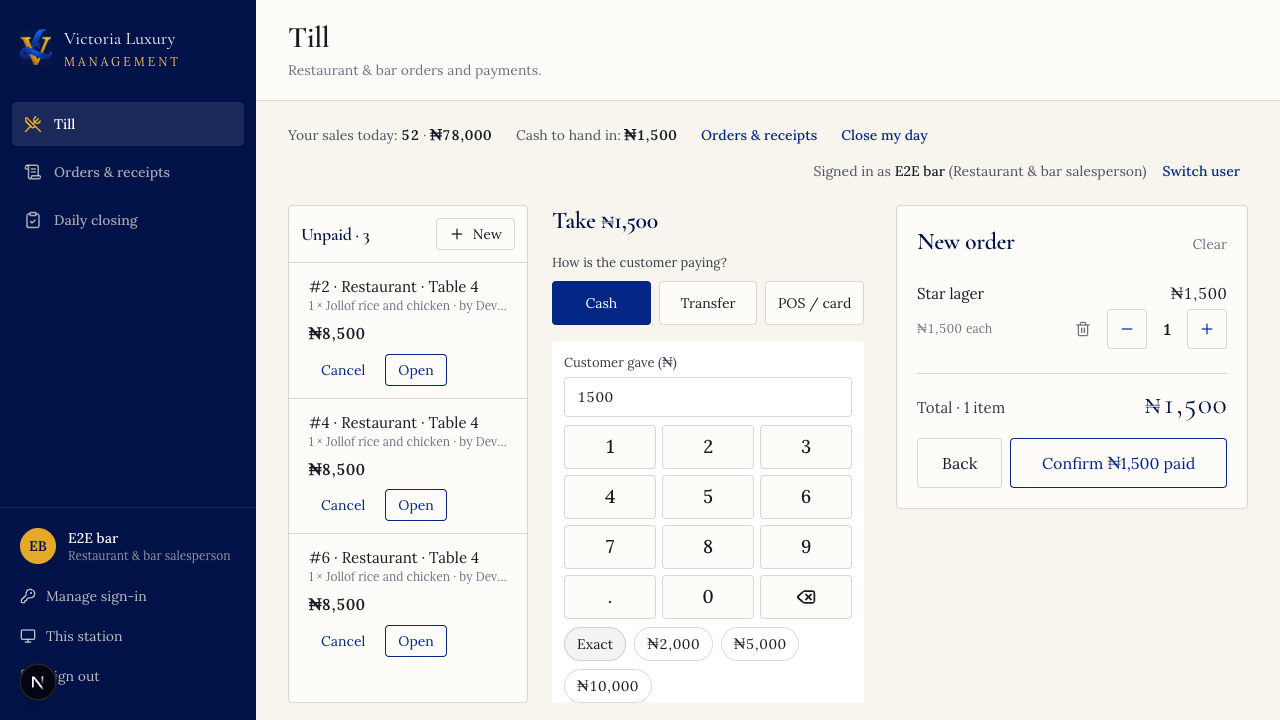
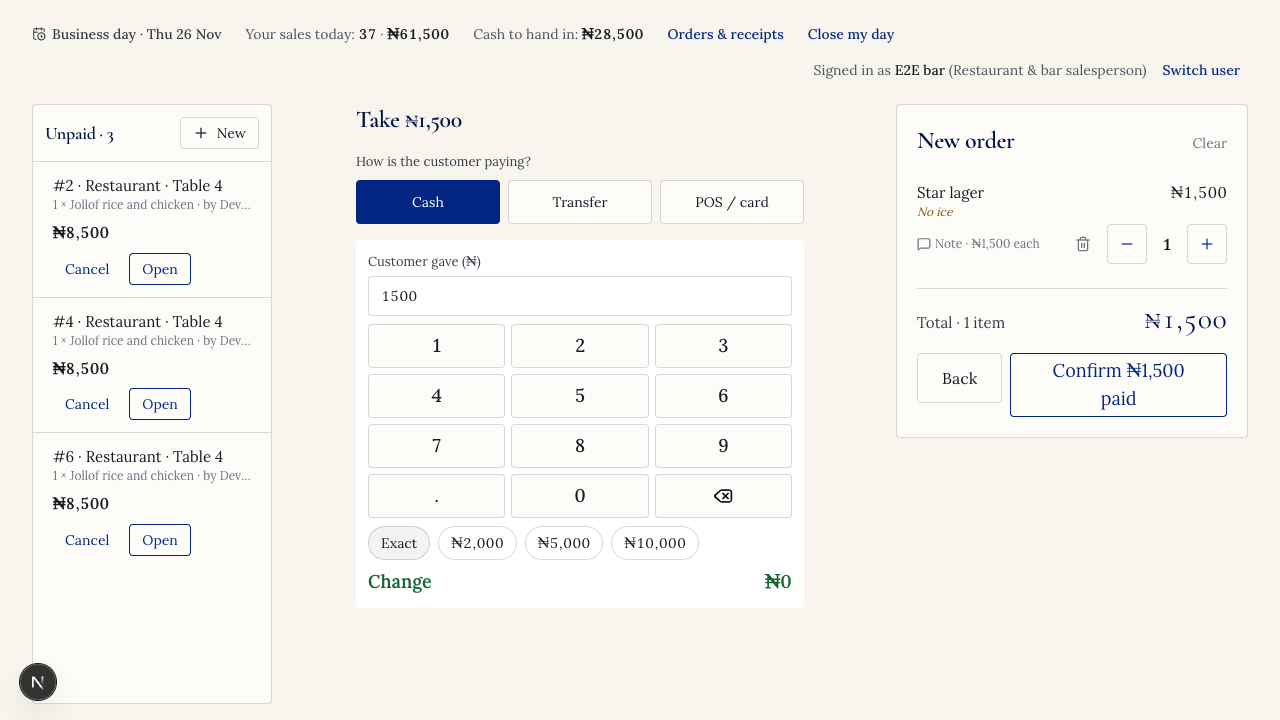
docs: interface brief screenshots and invariants I17-I18; steadier browser checks
Screens at 1366x768 and 1920x1080 (Today, calendar, side panel, payments to
confirm, dashboard) and the till at 1280x720 with a line note. Invariants in
order, I5 noted for 0022, I18 for the asked-for room (0024). Browser checks
open the side panel by its link instead of racing a click.

diff --git a/docs/rules-and-edge-cases.md b/docs/rules-and-edge-cases.md
@@ -96,7 +96,7 @@ Invite → active → removed. Removing access ends sessions immediately **[veri
 | I2 | A room assigned to a booking whose stay (effective end = max(check_out, tomorrow) while checked in) overlaps another active booking on that room | **[exists, extended by 0014]** |
 | I3 | Booking `checked_in` or `checked_out` with balance > 0 at the moment of the move | **[exists — DB rule added in 0015]** |
 | I4 | Booking `pending_payment` with a room assigned | **[exists — 0015]** |
-| I5 | More active bookings in a category than rooms in service for any night | **[exists: capacity, extended by 0014]** |
+| I5 | More active bookings in a category than rooms in service for any night | **[exists: capacity, extended by 0014; counts from the business date until 06:00 since 0022]** |
 | I6 | A successful payment changed or deleted | **[exists]** |
 | I7 | A payment without method, amount > 0, person (desk) or verified reference (online) | **[exists; transfer reference added in 0015]** |
 | I8 | Total paid on a booking > total + approved refunds owing (overpayment) without a refund request | **[exists: flagged for a refund, not blocked]** |
@@ -107,8 +107,9 @@ Invite → active → removed. Removing access ends sessions immediately **[veri
 | I13 | Insert into legacy `sales` (charge-to-room) | **[exists — 0015]** |
 | I14 | Zero owners | **[exists]** |
 | I15 | Bar order `paid` by POS/card without the last 4 digits of the terminal slip | **[exists — 0020]** (hardware brief H1) |
-| I17 | A payment check (Matches / Not found against the statement or terminal) changed, deleted, made twice for one payment, made by anyone but the GM/Owner, or "Not found" without a note | **[exists — 0021]** (interface brief I1) |
 | I16 | Desk payment by POS/card without the last 4 digits of the slip (from 0020 on; slips may repeat, transfers may not) | **[exists — 0020]** (H2) |
+| I17 | A payment check (Matches / Not found against the statement or terminal) changed, deleted, made twice for one payment, made by anyone but the GM/Owner, or "Not found" without a note | **[exists — 0021]** (interface brief I1) |
+| I18 | A room asked for on a booking (from the calendar, `preferred_room_id`) that isn't of the booking's room type. It is only a preference: rooms are still given on payment (I4) | **[exists — 0024]** (interface brief I6) |
 
 Each invariant gets a DB test in `tests/db` that tries to break it and expects the specific error.
 
